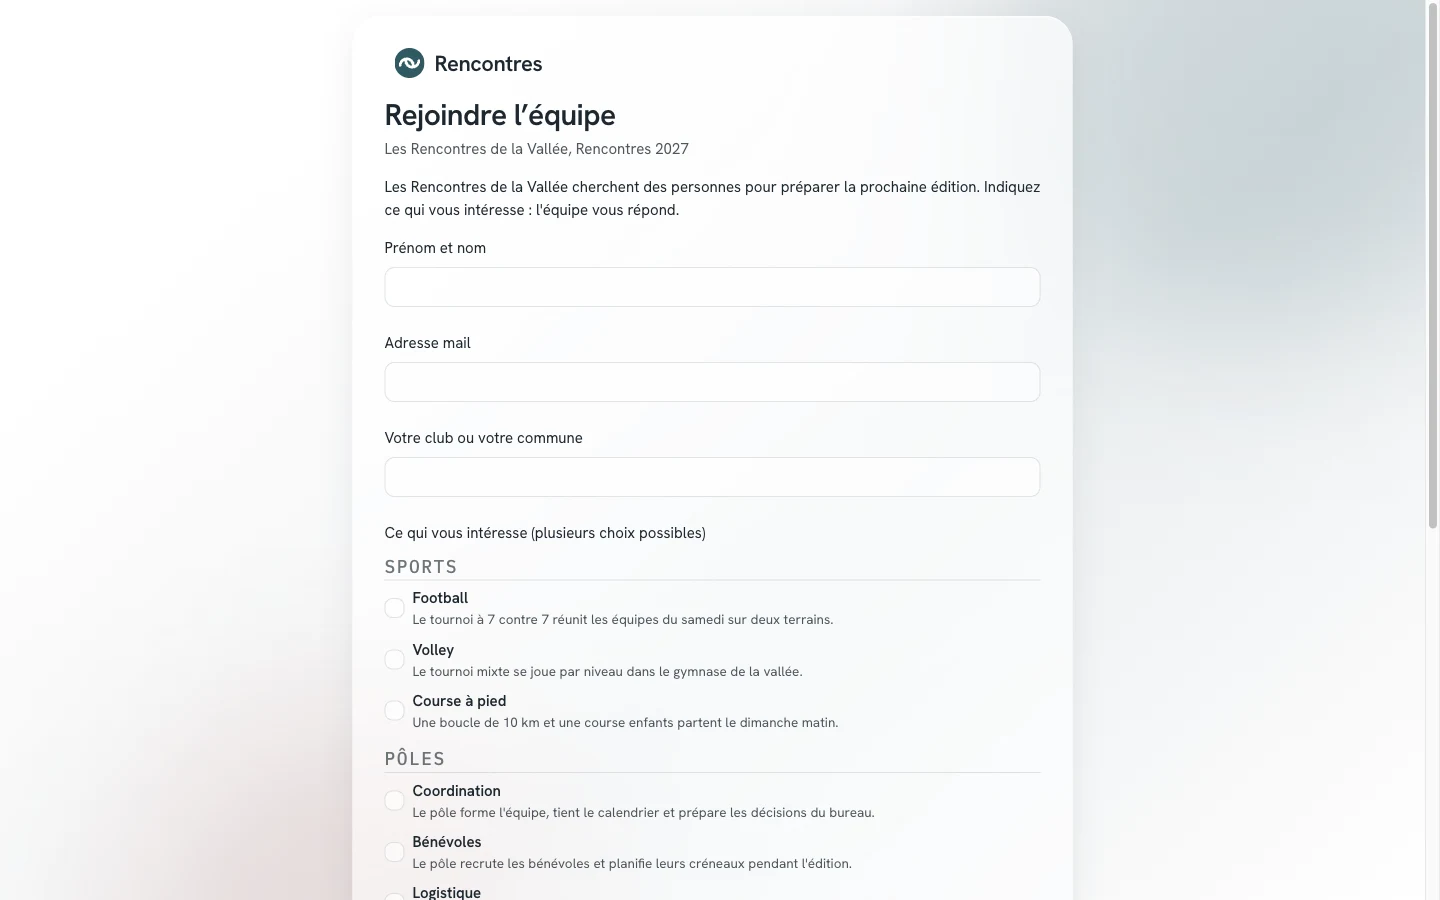
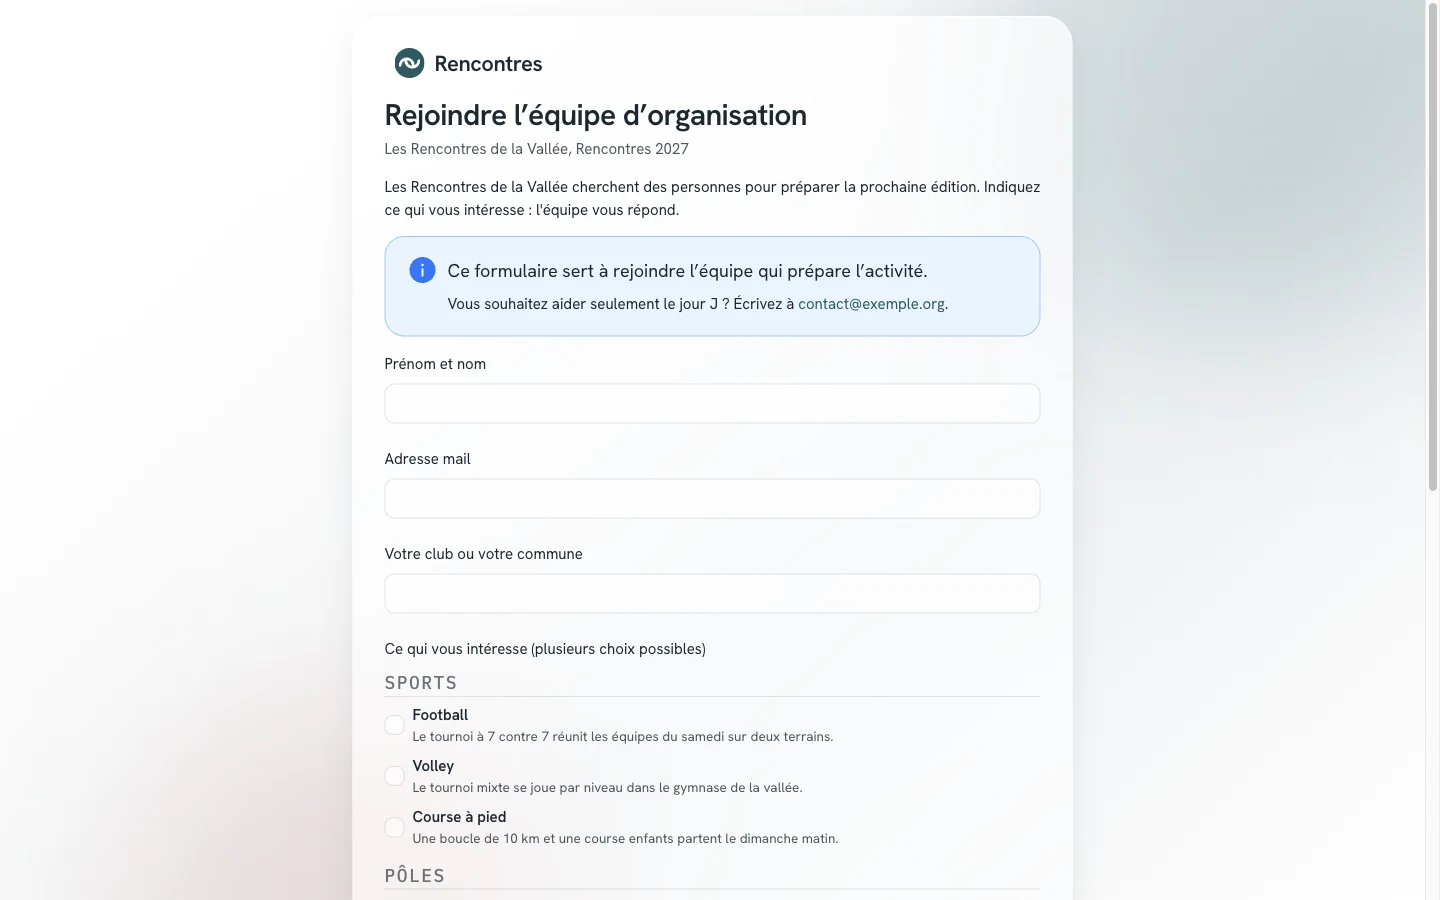
docs(site): décrire le lien vers l'appel à bénévoles du formulaire public
Les captures du formulaire, sur ordinateur et sur téléphone, montrent le
nouveau titre et l'encadré.

diff --git a/site/modes-d-emploi/admin-activite.html b/site/modes-d-emploi/admin-activite.html
@@ -301,7 +301,7 @@
             <li><span><span class="libelle">Question complémentaire</span></span><span>Poser une question propre à votre organisation, par exemple « Votre club ».</span></li>
             <li><span><span class="libelle">Paliers de disponibilité</span></span><span>Proposer jusqu'à huit paliers, par exemple « Quelques heures pendant l'événement ».</span></li>
           </ul>
-          <p class="note">Le formulaire est public : n'y écrivez aucune coordonnée personnelle. Il présente les périmètres de l'activité avec leur description. La personne ne reçoit aucun mail avant votre décision, et ses réponses sont supprimées à l'archivage de la période.</p>
+          <p class="note">Le formulaire est public : n'y écrivez aucune coordonnée personnelle. Il présente les périmètres de l'activité avec leur description. Il précise qu'il sert à rejoindre l'équipe qui prépare l'activité. Quand un appel à bénévoles est ouvert sur toute la période, le formulaire affiche son lien pour les personnes qui viennent aider le jour J. Sinon, il indique le contact de l'activité. La personne ne reçoit aucun mail avant votre décision, et ses réponses sont supprimées à l'archivage de la période.</p>
           <figure>
             <img src="../captures/rejoindre.webp" data-mobile="../captures/mobile/rejoindre.webp" width="1440" height="900" loading="lazy" alt="Formulaire public pour rejoindre l'équipe : le nom, l'adresse, une question complémentaire et les périmètres de l'activité avec leur description." />
             <figcaption>Formulaire public d'une activité, sur l'organisation d'exemple.</figcaption>
